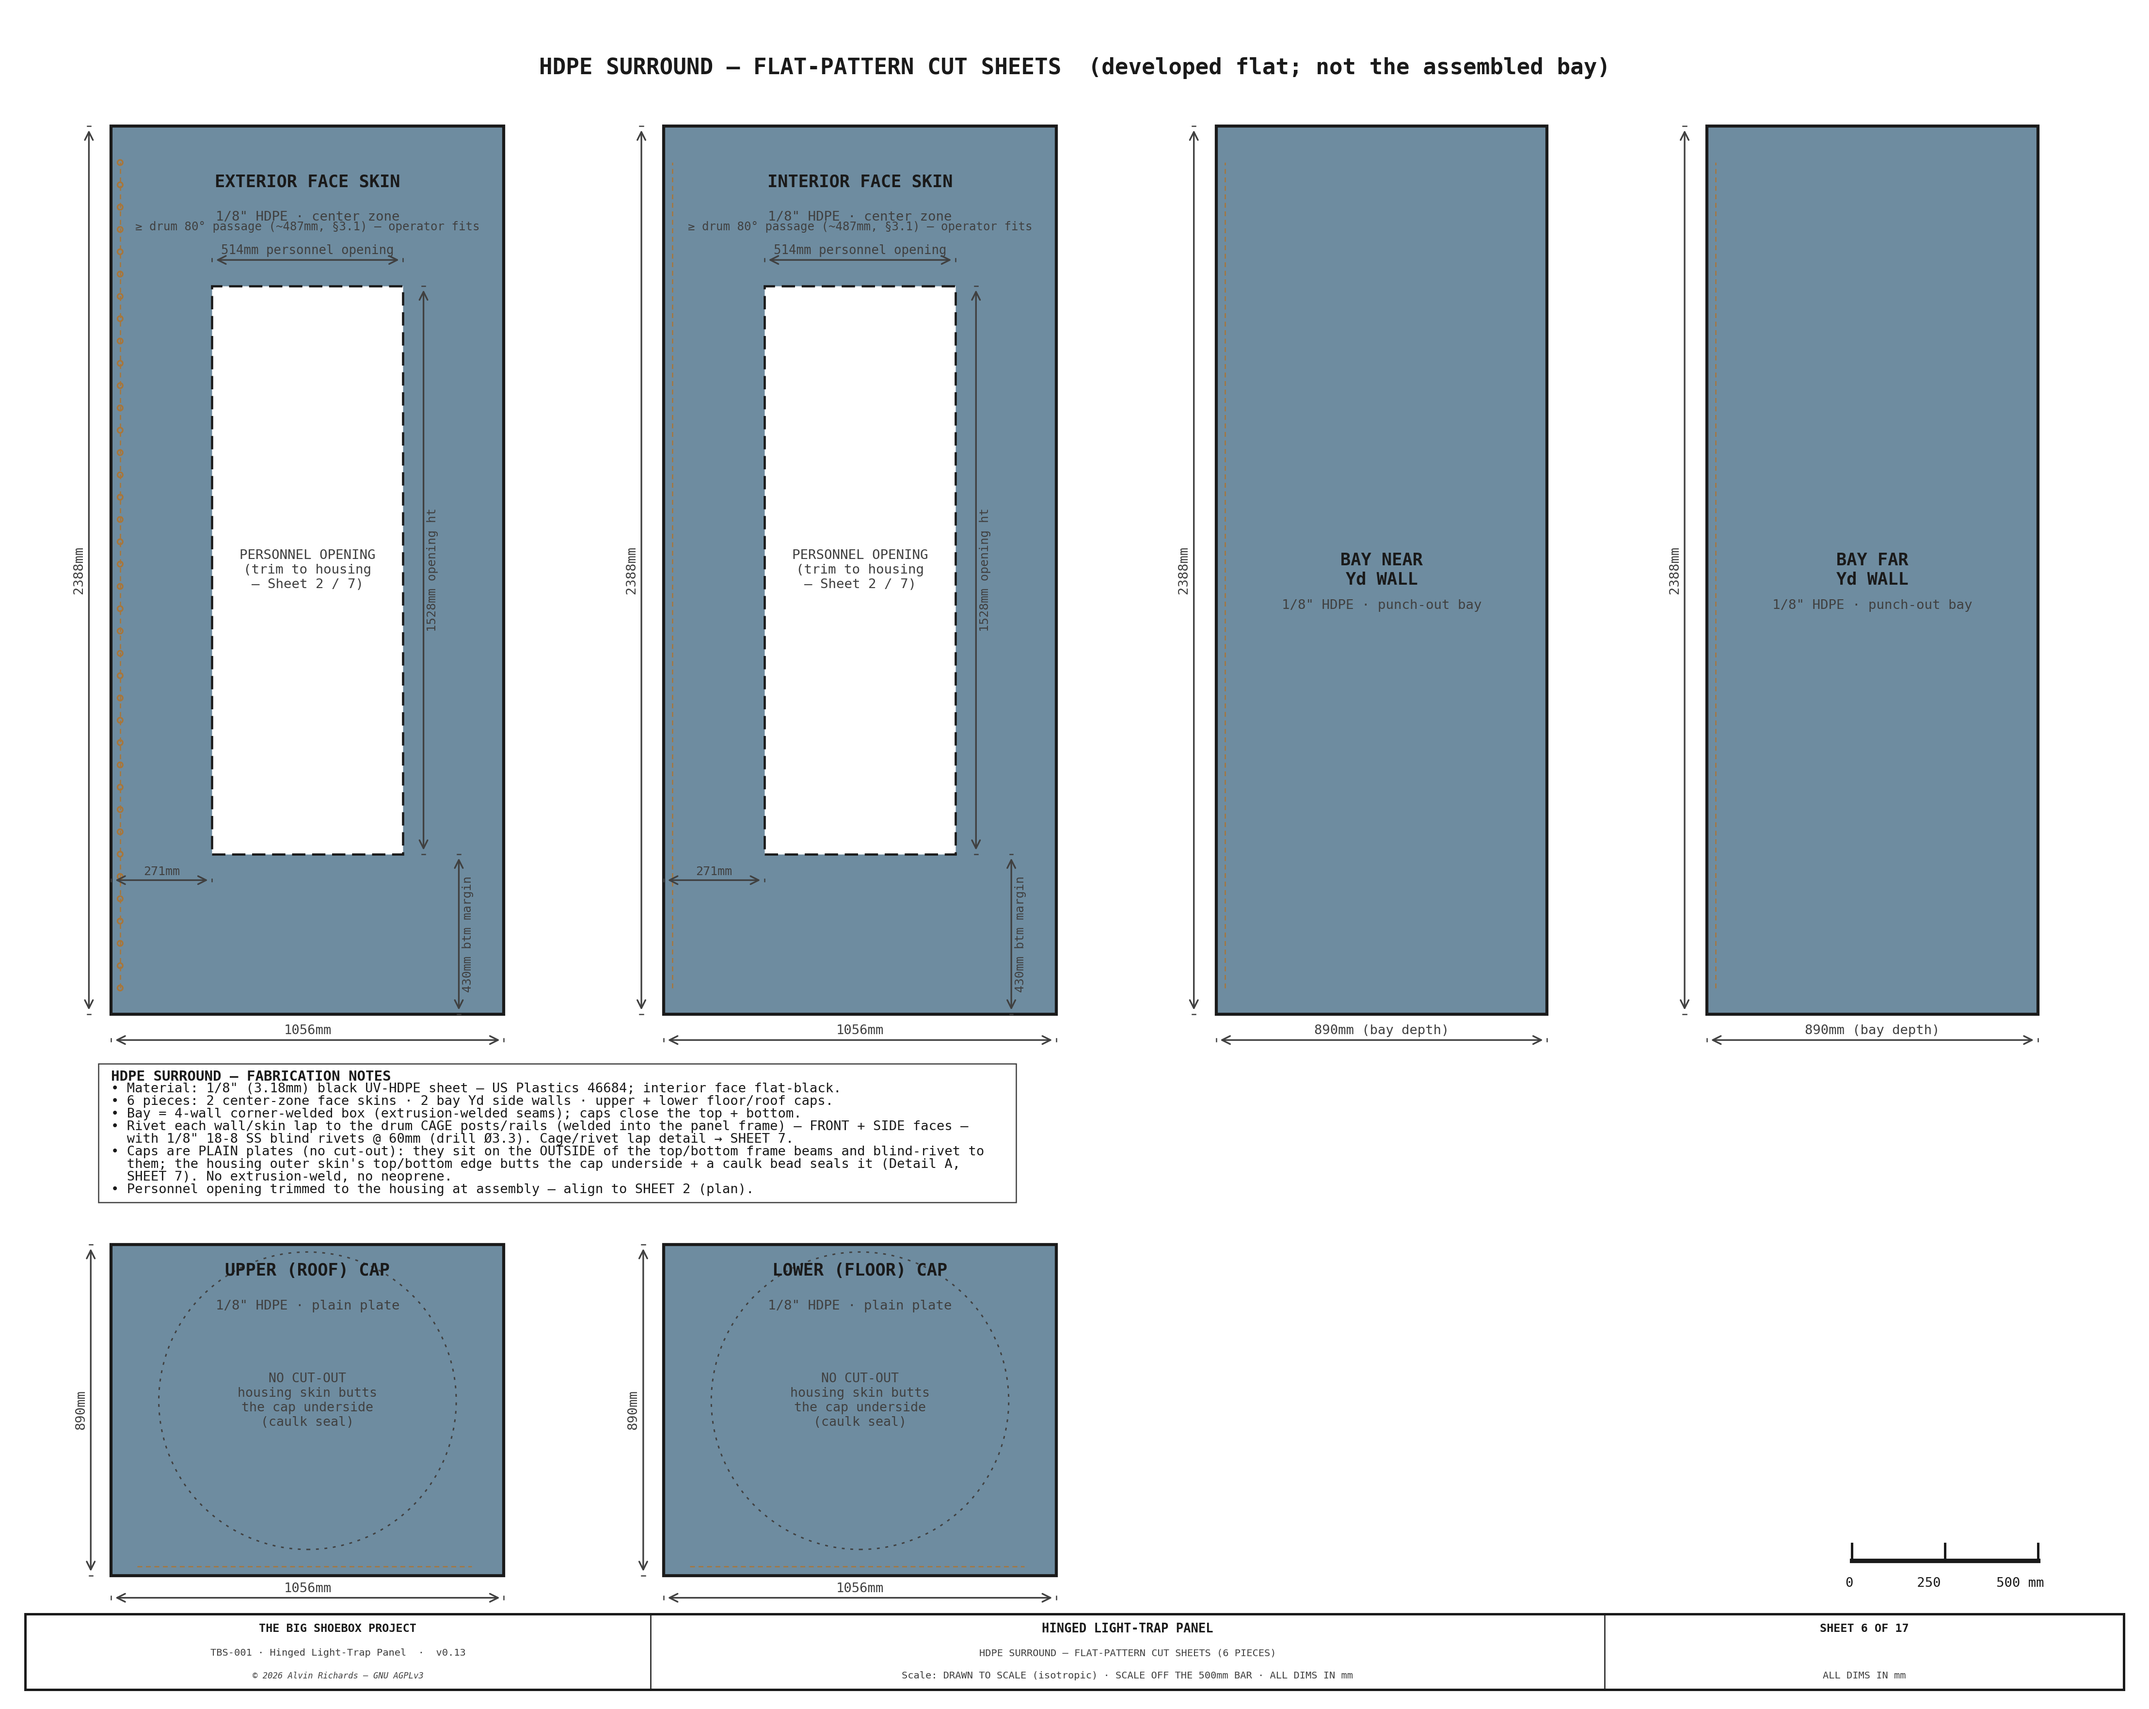
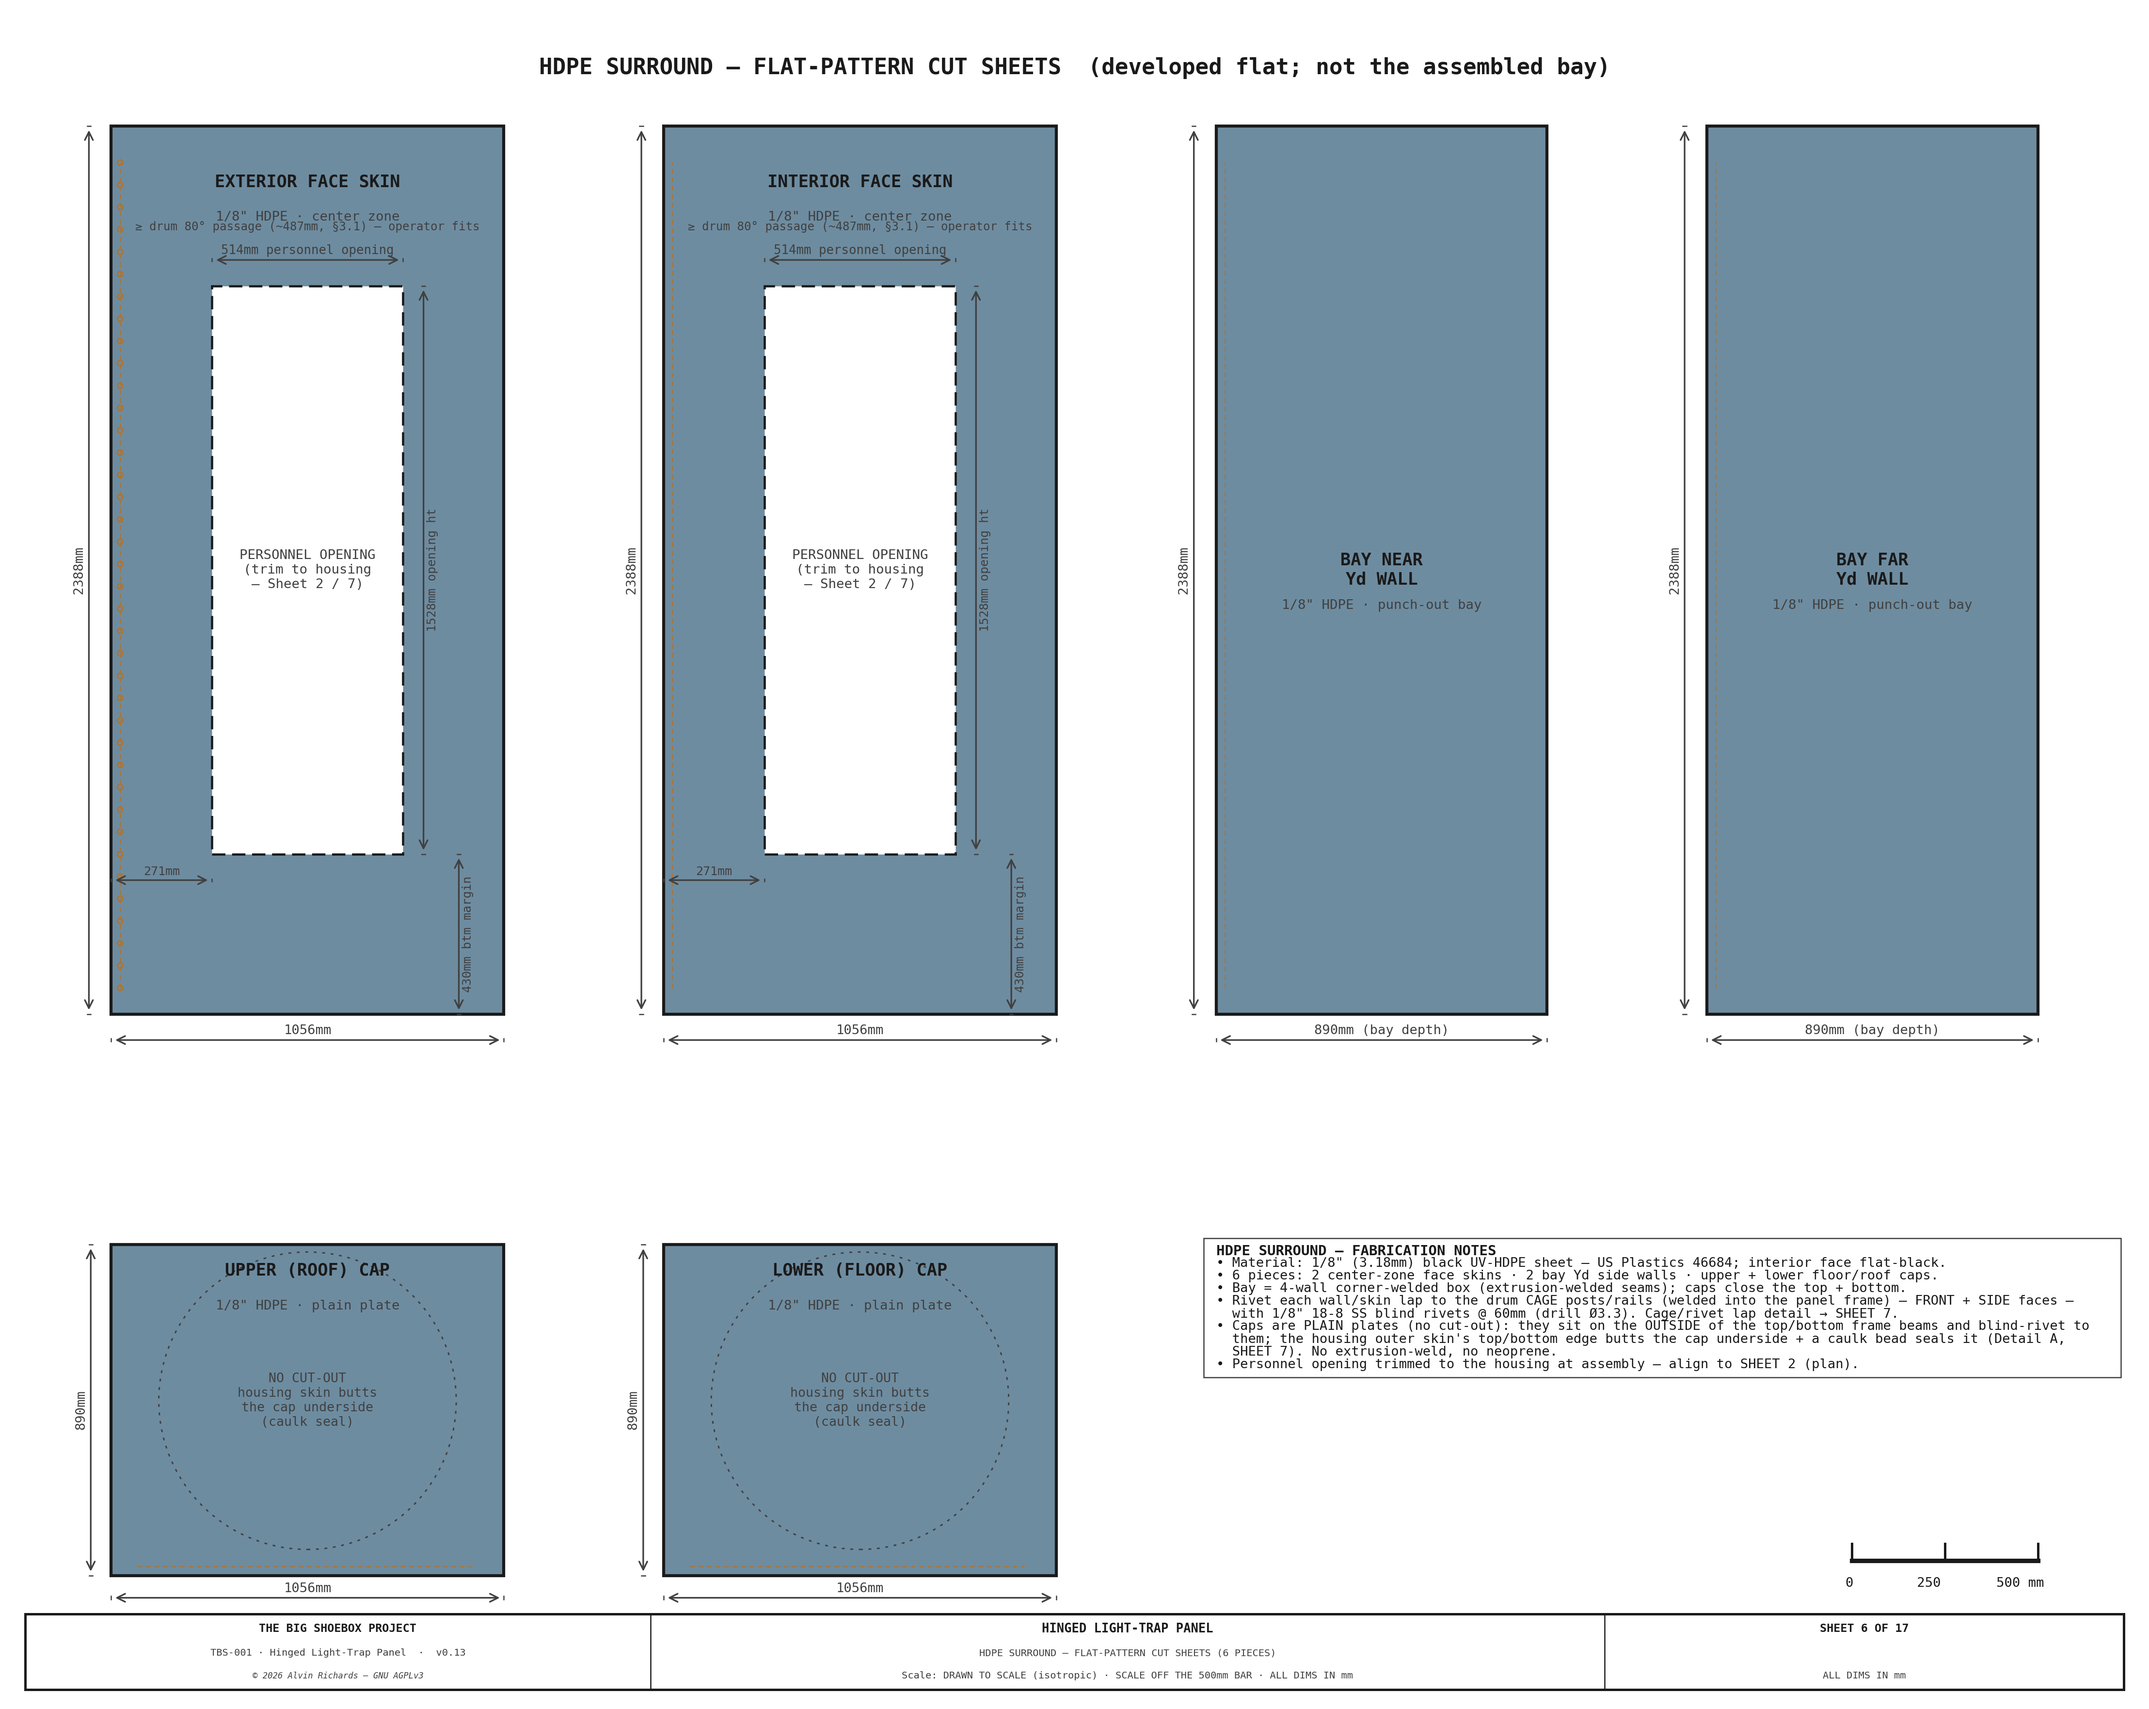
Tidy labels

Changed region(s): [[0.5603, 0.7177, 0.9339, 0.8113], [0.0311, 0.6241, 0.4358, 0.7177]]

diff --git a/src/generators/generate_hingepanel_diagram.py b/src/generators/generate_hingepanel_diagram.py
@@ -1659,7 +1659,7 @@ def sheet6():
         "• Caps are PLAIN plates (no cut-out): they sit on the OUTSIDE of the top/bottom frame beams and blind-rivet to them; the housing outer skin's top/bottom edge butts the cap underside + a caulk bead seals it (Detail A, SHEET 7). No extrusion-weld, no neoprene.",
         "• Personnel opening trimmed to the housing at assembly — align to SHEET 2 (plan).",
     ]
-    draw_notes(ax, notes, 0, -150, spacing=34, fs=6.5, title_fs=7.0,
+    draw_notes(ax, notes, xW1, yB + BAY_D, spacing=34, fs=6.5, title_fs=7.0,
                color=C_OUT, title_color=C_OUT, width=2400, wrap=110,
                border_color=C_DIM, font=FONT)
 
